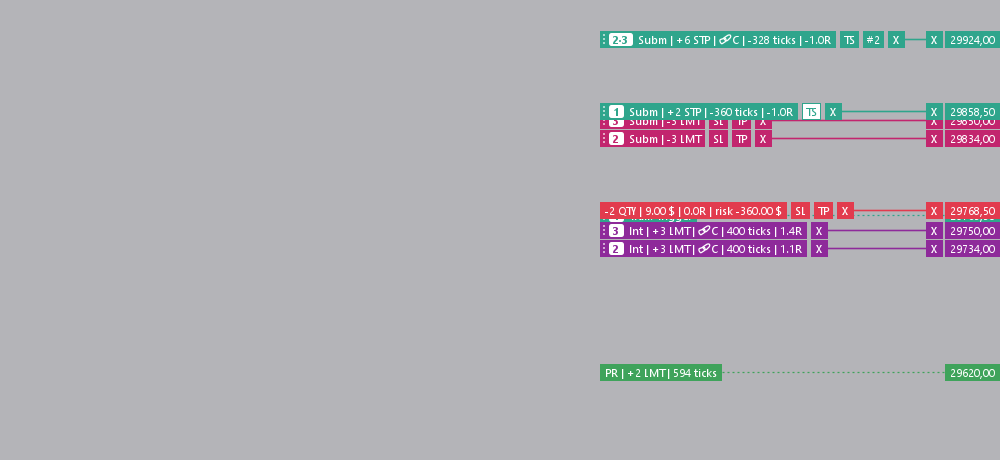
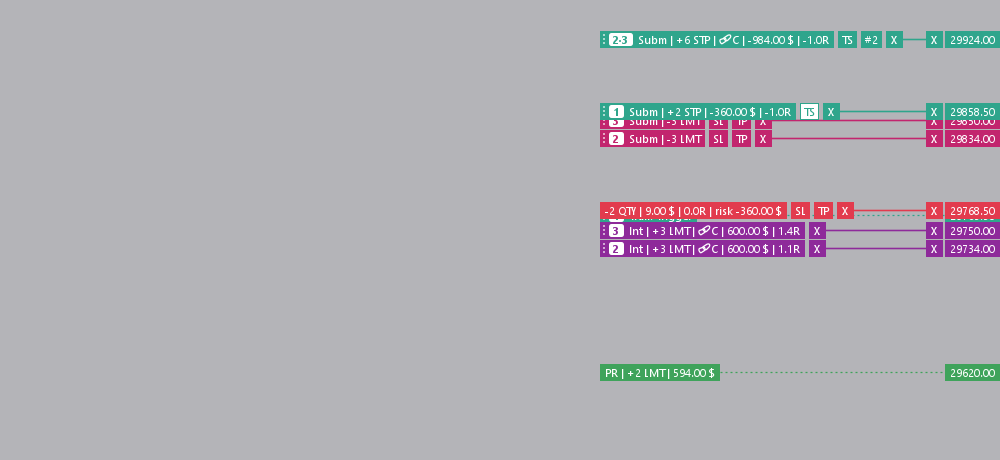
Rename to DeepCharts Trade Panel in MotiveWave and redesign the README
Banner, badges, download button, feature table, a "Works like
DeepCharts" section and new screenshots with the panel in Mode SL/TP.

diff --git a/README.md b/README.md
@@ -1,56 +1,88 @@
-# MotiveWave Trade Panel
+<p align="center">
+  <img src="docs/img/banner.png" alt="DeepCharts Trade Panel in MotiveWave" width="100%">
+</p>
 
-A floating trading panel and on-chart order management for [MotiveWave](https://www.motivewave.com/), built with the MotiveWave SDK. Its layout and workflow are modelled on the trading panel of DeepCharts.
+<h1 align="center">DeepCharts Trade Panel in MotiveWave</h1>
 
-> **Not affiliated** with MotiveWave or DeepCharts. Trading futures and other leveraged products involves substantial risk. This software is provided as is, without warranty (see [LICENSE](LICENSE)). Test it on a simulated account first.
+<p align="center">
+  <b>The DeepCharts trading panel, inside MotiveWave: same buttons, same order labels, same workflow.</b>
+</p>
 
-The interface is available in **English** (default) and **Spanish** (*Idioma / Language* in the strategy settings).
+<p align="center">
+  <a href="https://github.com/Dinamq/deepcharts-trade-panel-motivewave/releases/latest"><img src="https://img.shields.io/github/v/release/Dinamq/deepcharts-trade-panel-motivewave?style=flat-square&color=2ea043&label=release" alt="Release"></a>
+  <a href="https://github.com/Dinamq/deepcharts-trade-panel-motivewave/releases"><img src="https://img.shields.io/github/downloads/Dinamq/deepcharts-trade-panel-motivewave/total?style=flat-square&color=2ea043" alt="Downloads"></a>
+  <a href="LICENSE"><img src="https://img.shields.io/github/license/Dinamq/deepcharts-trade-panel-motivewave?style=flat-square&color=6a25b3" alt="License: MIT"></a>
+  <img src="https://img.shields.io/badge/MotiveWave-SDK-6a25b3?style=flat-square" alt="MotiveWave SDK">
+  <img src="https://img.shields.io/badge/Java-JavaFX-ff7f0e?style=flat-square" alt="Java / JavaFX">
+  <img src="https://img.shields.io/badge/language-EN%20%7C%20ES-555?style=flat-square" alt="English / Spanish">
+</p>
 
-![Panel](docs/img/panel.png)
+<p align="center">
+  <a href="https://github.com/Dinamq/deepcharts-trade-panel-motivewave/releases/latest/download/TradePanelDeepCharts.jar"><img src="https://img.shields.io/badge/%E2%AC%87%20Download-TradePanelDeepCharts.jar-2ea043?style=for-the-badge" alt="Download TradePanelDeepCharts.jar"></a>
+</p>
 
-## Features
+<p align="center"><sub>
+  Not affiliated with, endorsed by or connected to DeepCharts or MotiveWave. All trademarks belong to their owners.<br>
+  Trading futures and other leveraged products involves substantial risk. Test on a simulated account first.
+</sub></p>
 
-**Entries**
-- MKT, BID/ASK (with an optional tick offset), LMT, STP and STP LMT. STP LMT is emulated on the client, because the SDK has no stop-limit order.
-- Price-based orders: press the button, then click the price on the chart. Esc, a right click or a click on the orange banner cancels the placement.
-- Quantity modes:
-  - **Qty**: fixed quantity.
-  - **Risk**: mark the stop on the chart; the quantity comes from the SL risk (money or % of balance).
-  - **Averaging**: add to a position with a total-risk budget (against) or a % of the profit the stops lock in (in favor).
+---
 
-**Exits (OCO)**
-- **SL/TP mode**: stop and target in ticks, points, money, R:R or % of the initial or current balance.
-- **Exit strategies**, structured like MotiveWave's Exit Strategies:
-  - named strategies, with offsets in ticks or % of price;
-  - optional risk-based sizing (fixed amount or % of account) and break even;
-  - a table of steps, each with its % of the quantity, a stop (Stop / Trail / MIT) and a target (Limit / MIT).
-- **Server / Client**: in Server mode the stop of an LMT entry is sent to the broker together with it.
-- Auto breakeven, trailing stop with a draggable *Trail. Trigger* line, and a breakeven button.
+## 🧭 Works like DeepCharts
 
-**On the chart**
-- DeepCharts-style order labels with the quantity, the money at the order's price and SL / TP / TS / X buttons. Drag a label to move an order; drag the SL or TP button to place an exit.
-- Each entry gets a number (1, 2, 3…) shared with its SL and TP.
-- Exits at the same price are merged into one line, either by dropping one on another (snaps within a few pixels) or by placing them there. Drag the line's #N button to split them again, last one in first out.
-- Configurable labels:
-  - the position can show its R multiple and its risk;
-  - SL/TP lines can show their amount in money, %, ticks or points, and their R.
-- Errors (orders not sent, broker rejections…) show for a few seconds in a red box at the top of the chart.
-- Link pending orders (one fills, the others are cancelled), turn loose exit orders into an OCO, Cancel all, Cancel and Flat.
+If you trade with DeepCharts, you already know how to use it. The panel and the chart behave like the original DeepCharts trading panel:
 
-![Exit strategy](docs/img/exit-strategy.png)
+- **Same panel:** BUY / SELL columns with MKT, BID / ASK, LMT, STP and STP LMT, Cancel, BE, Cancel and Flat, OCO Strategy with Mode, SL. / TP., BE. / Trail. and Server / Client.
+- **Same order placement:** press LMT, STP or STP LMT and click the price on the chart. Esc or a right click cancels.
+- **Same order labels:** `Subm | -3 LMT | ⚯C | 600.00 $` with the SL / TP / X buttons and the price tag on the axis. Drag a label to move the order; drag its SL or TP button to place an exit.
+- **Same OCO logic:** internal (`Int`) exits are sent when the entry fills, and when one exit fills the other is cancelled. In Server mode the stop of an LMT entry goes to the broker with it.
+- **Partial exits** like DeepCharts' Multi mode: exit strategies with several stops and targets, organised like MotiveWave's Exit Strategies.
 
-![Chart labels](docs/img/chart.png)
+## 🚀 Quick start
 
-## Installation
+1. **Download** [`TradePanelDeepCharts.jar`](https://github.com/Dinamq/deepcharts-trade-panel-motivewave/releases/latest/download/TradePanelDeepCharts.jar).
+2. **Copy** it to `%USERPROFILE%\MotiveWave Extensions` and restart MotiveWave.
+3. **Add** the strategy **Trade Panel (DeepCharts)** to a chart (menu *MotiveWave Custom*) and press **Activate**. The panel appears; the **PANEL** button at the top right of the chart shows or hides it.
 
-1. Download `TradePanelDeepCharts.jar` from the [Releases](../../releases) page, or build it yourself (see below).
-2. Copy it to `%USERPROFILE%\MotiveWave Extensions` and restart MotiveWave.
-3. Add the strategy **Trade Panel (DeepCharts)** to a chart (menu *MotiveWave Custom*) and press **Activate**. The panel appears; the **PANEL** button at the top right of the chart shows or hides it.
+The language (English by default, or Spanish) and the label options are in the strategy settings.
 
-## Building
+## ✨ Features
+
+<table>
+<tr>
+<td width="62%" valign="top">
+
+| | |
+|---|---|
+| 🟢 **Entries** | MKT, BID / ASK with a tick offset, LMT, STP and STP LMT (emulated on the client). Click-to-place on the chart. |
+| 🎯 **OCO exits** | Stop and target in ticks, points, money, R:R or % of the initial / current balance. |
+| 🧩 **Exit strategies** | Named strategies with steps. Each step has its % of the quantity, a stop (Stop / Trail / MIT) and a target (Limit / MIT). Optional risk sizing and break even. |
+| ⚖ **Risk sizing** | **Risk** mode: mark the stop and the quantity comes from your risk. **Averaging** mode: add with a total-risk budget or a % of the locked-in profit. |
+| 🛡 **Breakeven & trailing** | BE button, auto BE, and a trailing stop with a draggable *Trail. Trigger* line. |
+| 🔗 **Order management** | Link pending orders, turn loose exits into an OCO, Cancel all, Cancel and Flat. |
+| 🏷 **Chart labels** | Entry numbers shared with their SL / TP. Exits at the same price are merged into one line and split again with #N. Optional R multiple and risk in money, %, ticks or points. |
+| 🚨 **Errors on the chart** | Orders not sent and broker rejections appear for a few seconds in a red box. |
+| 🌐 **Languages** | English and Spanish. |
+
+</td>
+<td width="38%" valign="top" align="center">
+<img src="docs/img/panel.png" alt="Trade Panel" width="236">
+</td>
+</tr>
+</table>
+
+### 🏷 Order labels on the chart
+
+<p align="center"><img src="docs/img/chart.png" alt="Order labels on the chart" width="90%"></p>
+
+### 🧩 Exit strategies
+
+<p align="center"><img src="docs/img/exit-strategy.png" alt="Exit strategy editor" width="70%"></p>
+
+## 🛠 Building from source
 
 Requirements:
-- Windows with MotiveWave installed in `C:\Program Files (x86)\MotiveWave`. The SDK and JavaFX jars are taken from there.
+- Windows with MotiveWave in `C:\Program Files (x86)\MotiveWave`. The SDK and JavaFX jars are taken from there.
 - PowerShell. `build.ps1` downloads a portable JDK 26 the first time if it can't find one.
 
 ```powershell
@@ -59,9 +91,10 @@ Requirements:
 .\build.ps1 -NoInstall  # only build the jar
 ```
 
-The tests (`test/java/com/tradepanel/EngineTest.java`) run the order engine against a simulated broker, with no MotiveWave needed.
+The tests (`test/java/com/tradepanel/EngineTest.java`, 300+ checks) run the order engine against a simulated broker, without MotiveWave.
 
-## Project layout
+<details>
+<summary><b>Project layout</b></summary>
 
 | File | What it does |
 |---|---|
@@ -72,19 +105,30 @@ The tests (`test/java/com/tradepanel/EngineTest.java`) run the order engine agai
 | `Config.java` | Panel values and exit strategies, saved in the user preferences |
 | `T.java` | English / Spanish texts |
 
-## Author
+</details>
 
-Made by **Dinamq** (Gonzaliito).
+## ⚠ Limitations
 
-## Limitations
+- The MotiveWave SDK has no native stop-limit, MIT or server-side OCO orders. STP LMT entries, MIT targets, trailing and the OCO between stop and target are managed by the panel, so MotiveWave must stay open.
+- Tested offline against a simulated broker. Check it on a simulated account with your broker before trading live.
 
-- The SDK has no native stop-limit, MIT or server-side OCO orders. STP LMT entries, MIT targets, trailing and the OCO between stop and target are managed by the panel, so MotiveWave must stay open.
-- Tested offline with a simulated broker. Check it on a simulated account with your broker before trading live.
+## 👤 Author
+
+Made by **Dinamq** (Gonzaliito). Released under the [MIT License](LICENSE).
 
 ---
 
-### Español
+<details>
+<summary><b>🇪🇸 Español</b></summary>
 
-Panel de trading flotante y gestión de órdenes desde el gráfico para MotiveWave, al estilo del panel de DeepCharts. El idioma se elige en los ajustes de la estrategia (*Idioma / Language*). Para instalarlo, copia `TradePanelDeepCharts.jar` en `%USERPROFILE%\MotiveWave Extensions`, reinicia MotiveWave y añade la estrategia **Trade Panel (DeepCharts)** a un gráfico. Operar con productos apalancados conlleva un riesgo importante: pruébalo antes en una cuenta simulada.
+**DeepCharts Trade Panel in MotiveWave**: el panel de trading de DeepCharts dentro de MotiveWave, con los mismos botones, las mismas etiquetas de órdenes y la misma forma de trabajar.
+
+1. Descarga [`TradePanelDeepCharts.jar`](https://github.com/Dinamq/deepcharts-trade-panel-motivewave/releases/latest/download/TradePanelDeepCharts.jar).
+2. Cópialo en `%USERPROFILE%\MotiveWave Extensions` y reinicia MotiveWave.
+3. Añade la estrategia **Trade Panel (DeepCharts)** a un gráfico y pulsa **Activate**.
+
+El idioma se cambia en los ajustes de la estrategia (*Idioma / Language*). No está afiliado a DeepCharts ni a MotiveWave. Operar con productos apalancados conlleva un riesgo importante: pruébalo antes en una cuenta simulada.
 
 Autor: **Dinamq** (Gonzaliito).
+
+</details>
